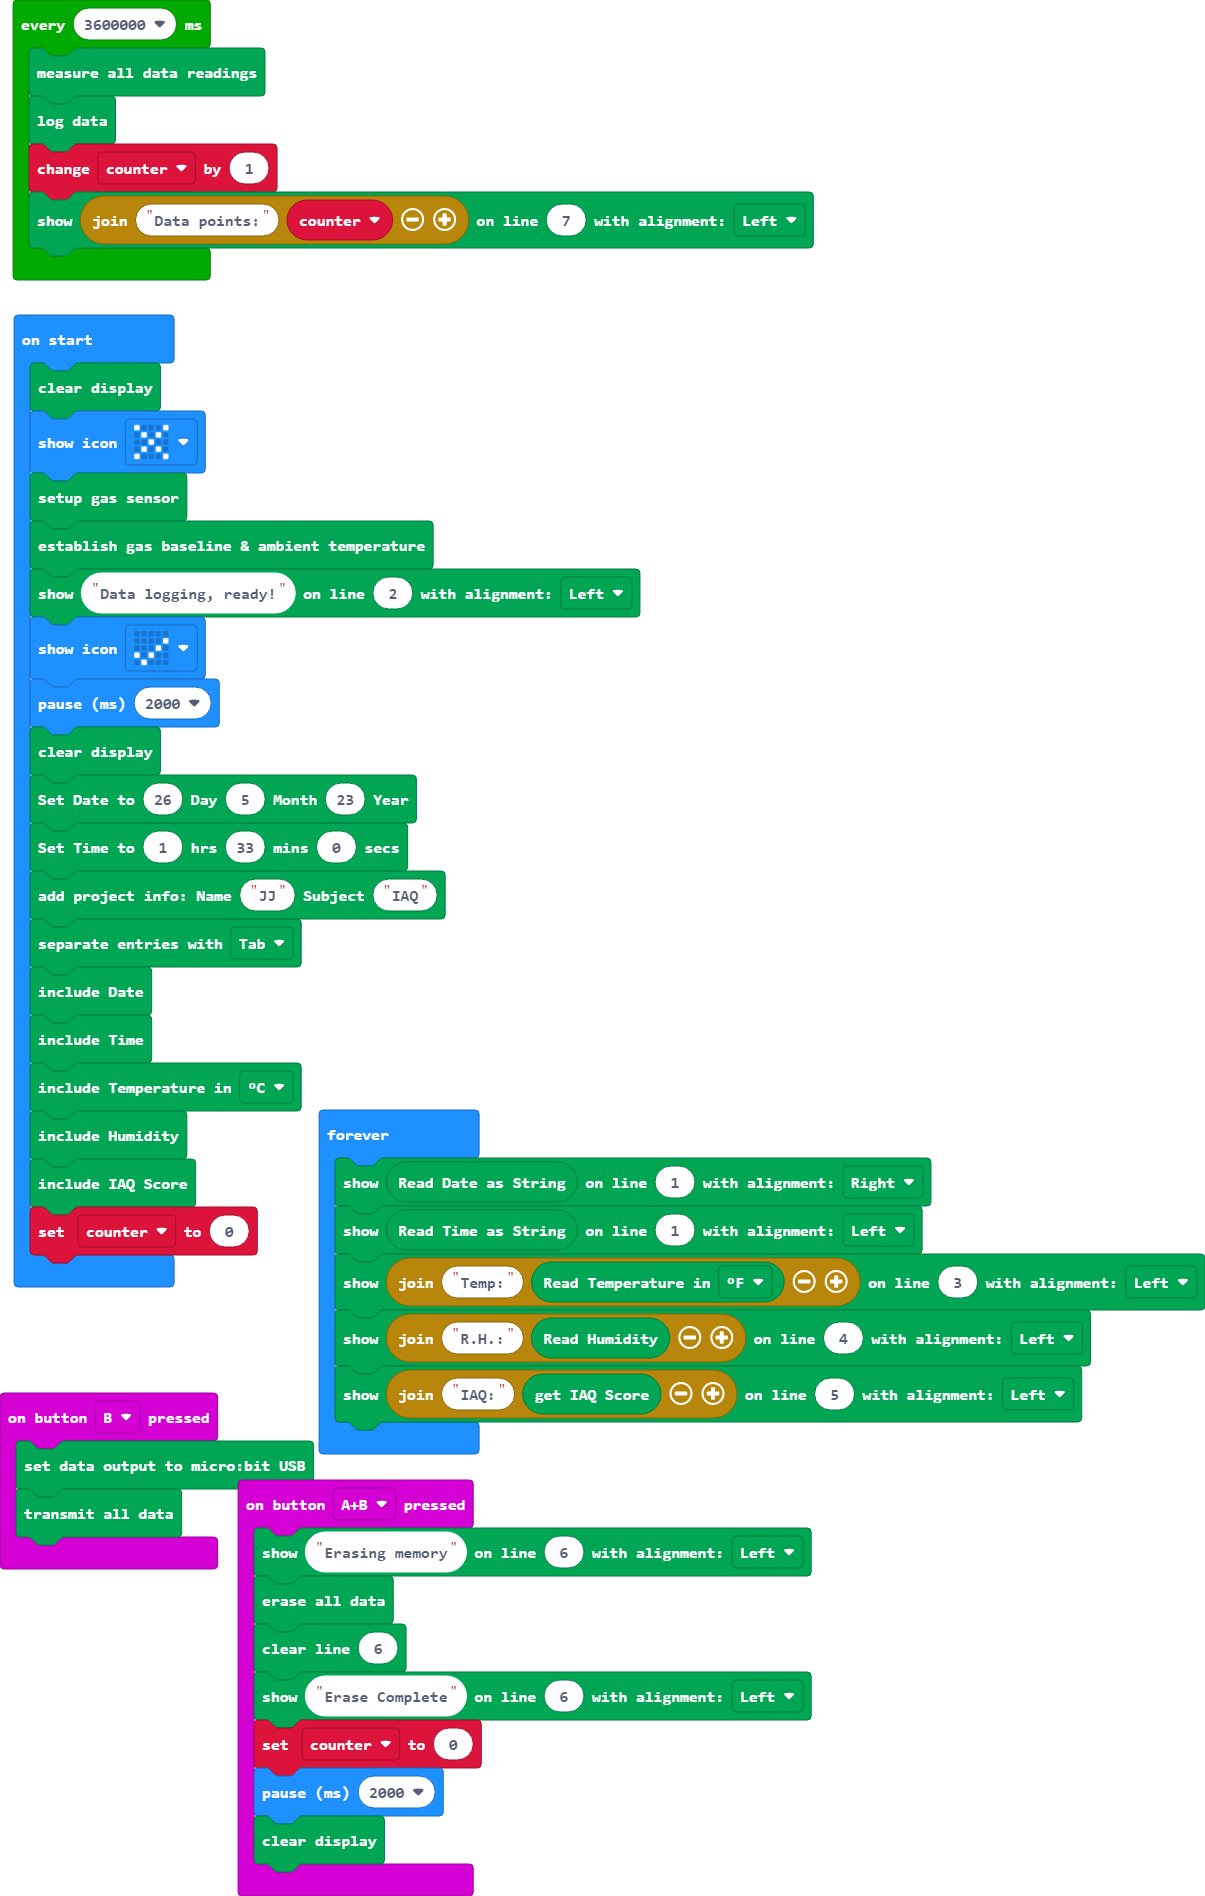
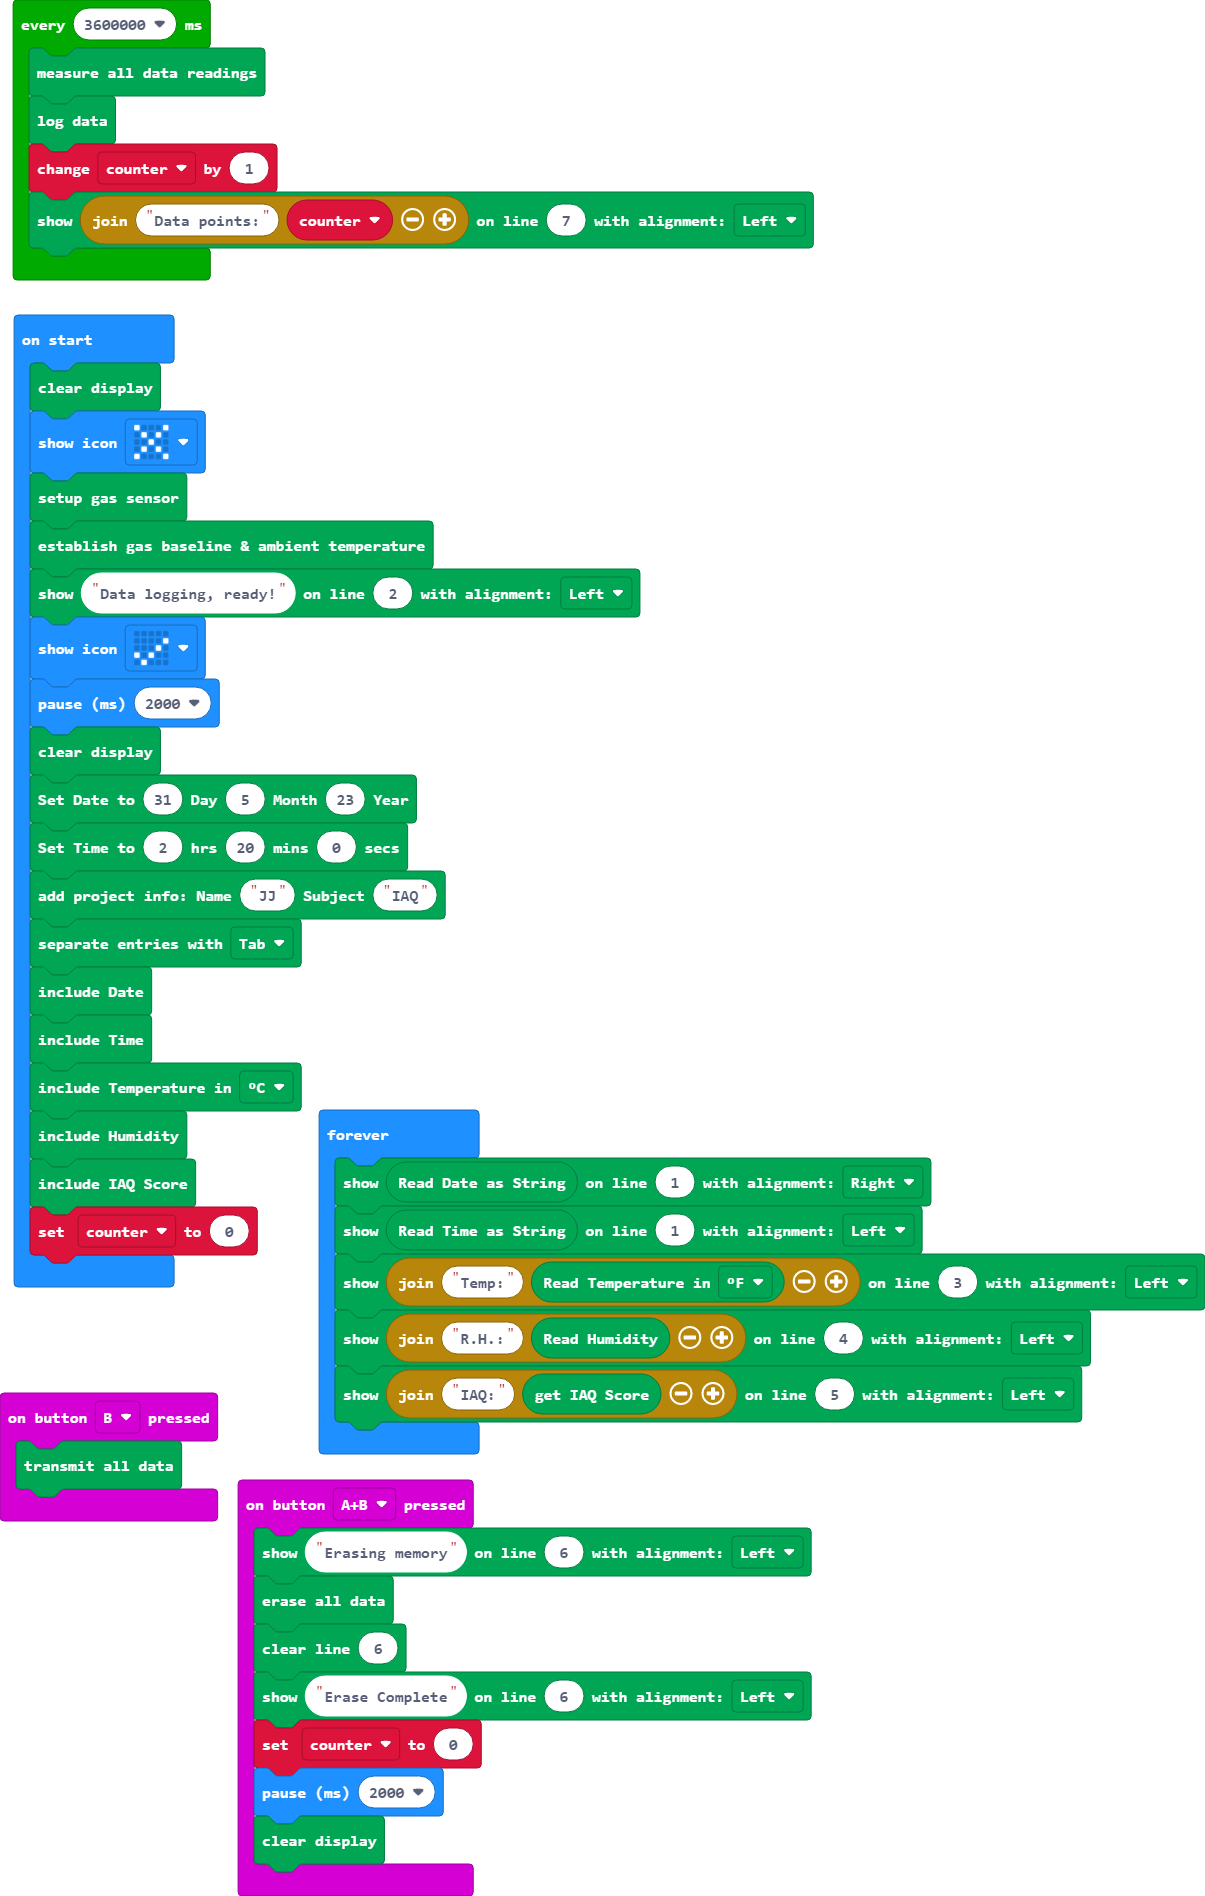
Update pxt.json, main.blocks, main.ts

Changed region(s): [[0.0, 0.7468, 0.2763, 0.8402]]

diff --git a/main.ts b/main.ts
@@ -8,7 +8,6 @@ input.onButtonPressed(Button.AB, function () {
     kitronik_air_quality.clear()
 })
 input.onButtonPressed(Button.B, function () {
-    kitronik_air_quality.setDataForUSB()
     kitronik_air_quality.sendAllData()
 })
 let counter = 0
@@ -20,8 +19,8 @@ kitronik_air_quality.show("Data logging, ready!", 2, kitronik_air_quality.ShowAl
 basic.showIcon(IconNames.Yes)
 basic.pause(2000)
 kitronik_air_quality.clear()
-kitronik_air_quality.setDate(26, 5, 23)
-kitronik_air_quality.setTime(1, 33, 0)
+kitronik_air_quality.setDate(31, 5, 23)
+kitronik_air_quality.setTime(2, 20, 0)
 kitronik_air_quality.addProjectInfo("JJ", "IAQ")
 kitronik_air_quality.selectSeparator(kitronik_air_quality.Separator.tab)
 kitronik_air_quality.includeDate()
